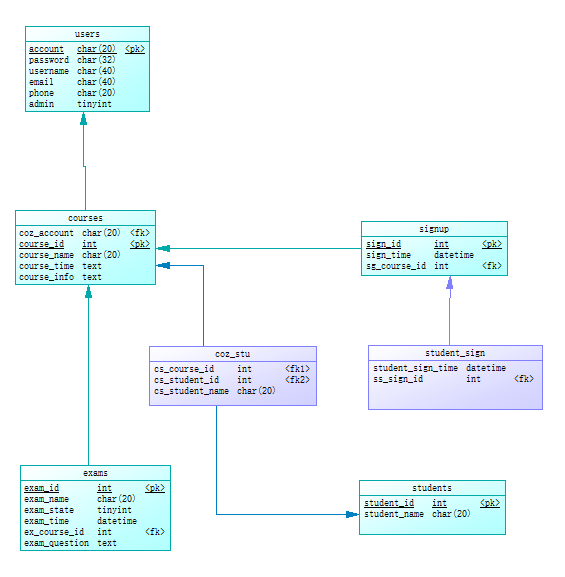
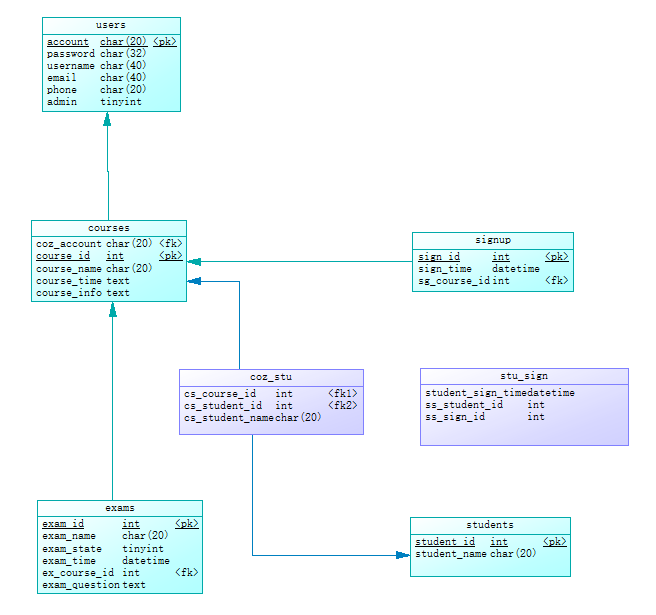
删除stusign表外键，设置触发器维护该表

diff --git a/dao/dao.js b/dao/dao.js
@@ -134,7 +134,7 @@ exports.studentsign = function(sign_id, student, callback) {
         } else if (result[0].cs_student_name != student.name) {
             callback(2, A)
         } else {
-            var sql = "insert into student_sign set ss_sign_id=?,"
+            var sql = "insert into stu_sign set ss_sign_id=?,"
                     + "ss_student_id=?";
             pool.query(sql, sign_id, student_id, 
                             function(err, result, fields) {
